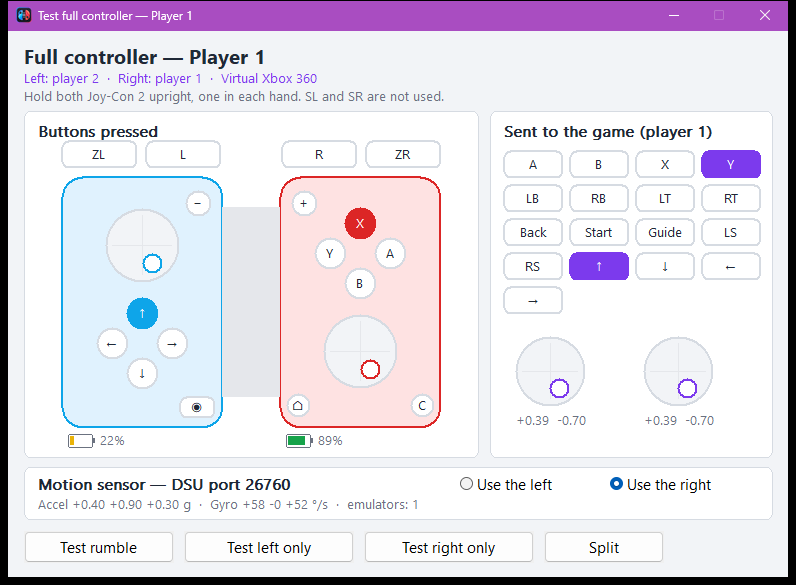
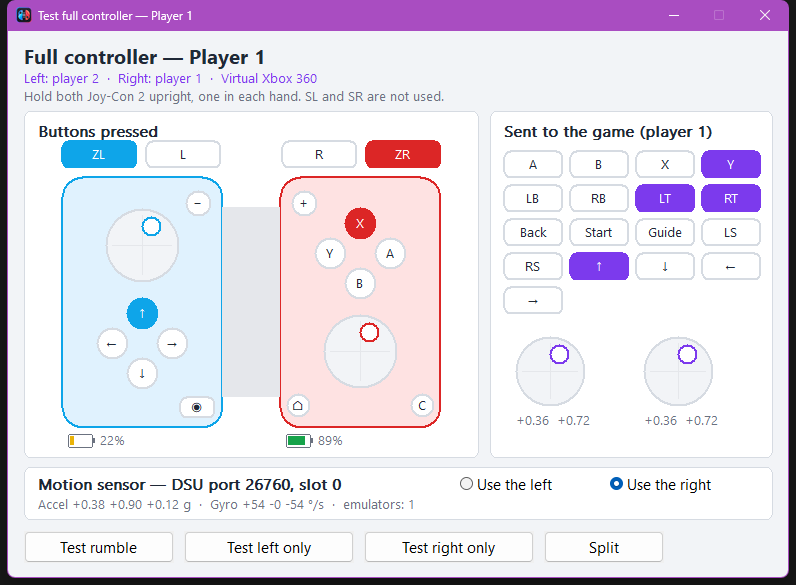
README: movimento DSU em uma porta com um slot por controle (v1.4.0)

diff --git a/README.md b/README.md
@@ -22,8 +22,8 @@ O JoyCon2 Hub conecta até **8 Joy-Con 2** por Bluetooth, ativa todos os recurso
 - Up to **8 Joy-Con 2** over Bluetooth LE, no Windows pairing needed (just hold SYNC).
 - Each one becomes a **virtual Xbox 360** (players 1–4) or **DualShock 4** (players 5–8) controller.
 - **Join** a left + right pair into one full controller.
-- **Motion via CemuHook/DSU** for Ryujinx, Cemu, Dolphin: one port per player (`127.0.0.1`, port 26760 + player − 1, slot 0).
-- **Switch 2 emulators (Lichii, Eden-NX2):** Lichii only connects the Switch 2 *Pro Controller* by itself. JoyCon2 Hub adds the **Joy-Con 2**. In *Emulation → Configure… → Controls*, pick the virtual Xbox controller as the input device. Then go to *Motion → Configure → CemuhookUDP Config*: `127.0.0.1:26760` is there by default; add 26761, 26762… for more players. Finally click the motion field (*Motion 2* for Right Joycon, *Motion 1* for Left/Pro) and shake the Joy-Con without touching the mouse. If it says "Mouse", right-click → Clear and retry.
+- **Motion via CemuHook/DSU** for Ryujinx, Cemu, Dolphin: one server, one slot per player — `127.0.0.1:26760`, slot = player − 1 (players 1–4 → slots 0–3; players 5–8 → port `26761`, slots 0–3). The card of each controller shows its port and slot.
+- **Switch 2 emulators (Lichii, Eden-NX2):** Lichii only connects the Switch 2 *Pro Controller* by itself. JoyCon2 Hub adds the **Joy-Con 2**. In *Emulation → Configure… → Controls*, pick the virtual Xbox controller as the input device. Then go to *Motion → Configure → CemuhookUDP Config*: `127.0.0.1:26760` is there by default and serves players 1–4 (add `26761` only for players 5–8). Finally click the motion field (*Motion 2* for Right Joycon, *Motion 1* for Left/Pro) and shake the Joy-Con without touching the mouse. If it says "Mouse", right-click → Clear and retry.
 - Guided calibration, live 3D test window, battery %, player LEDs, tray icon, auto-update.
 - The interface follows your Windows language (English, Português, Español, Français, Deutsch, Italiano, Русский, 日本語, 한국어, 中文).
 
@@ -38,8 +38,8 @@ Questions or problems? Open an **[Issue](../../issues)** (attach `%LOCALAPPDATA%
 - **Até 8 Joy-Con 2 ao mesmo tempo**, cada um como um jogador separado (esquerdo ou direito, identificado sozinho).
 - **Todos os botões**, incluindo **SL/SR**, HOME, Captura e o botão **C** do Joy-Con 2 direito.
 - **Controle virtual por jogador**: Xbox 360 para os jogadores 1 a 4 e DualShock 4 para os jogadores 5 a 8.
-- **Juntar esquerdo + direito num controle completo**: o botão **Juntar** no cartão de um Joy-Con une ele a um do outro lado (com mais de um disponível, você escolhe qual). Os dois viram **um só controle virtual**, segurados na vertical como um controle comum: dois analógicos, direcional, ABXY, L/R, ZL/ZR, −/+ e HOME (SL/SR não são usados). O movimento vai pela porta DSU do jogador principal, e você escolhe se vem do Joy-Con **esquerdo ou direito**. O cartão unido tem **Testar** (tela própria do controle completo), **Separar** e **Desconectar** (os dois). Ao conectar, os Joy-Con continuam separados como sempre.
-- **Movimento (CemuHook/DSU)**: uma porta por controle (26760, 26761, …), sempre no slot 0.
+- **Juntar esquerdo + direito num controle completo**: o botão **Juntar** no cartão de um Joy-Con une ele a um do outro lado (com mais de um disponível, você escolhe qual). Os dois viram **um só controle virtual**, segurados na vertical como um controle comum: dois analógicos, direcional, ABXY, L/R, ZL/ZR, −/+ e HOME (SL/SR não são usados). O movimento vai pela porta e slot DSU do jogador principal, e você escolhe se vem do Joy-Con **esquerdo ou direito**. O cartão unido tem **Testar** (tela própria do controle completo), **Separar** e **Desconectar** (os dois). Ao conectar, os Joy-Con continuam separados como sempre.
+- **Movimento (CemuHook/DSU)**: um servidor só, com um **slot por controle**: porta `26760`, slot = número do jogador − 1 (jogadores 1 a 4 nos slots 0 a 3; jogadores 5 a 8 na porta `26761`, slots 0 a 3). O cartão de cada controle mostra a porta e o slot dele.
 - **Vibração** do jogo repassada ao Joy-Con.
 - **LED de jogador** aceso conforme o número do jogador.
 - **Bateria em porcentagem** de cada controle.
@@ -89,8 +89,18 @@ Para cada jogador, em **Opções → Configurações → Entrada**:
 2. **Tipo de controle:** Joy-Con esquerdo, Joy-Con direito ou Pro Controller, conforme o jogo.
 3. Em **Movimento**, marque **"Usar movimento compatível com CemuHook"** e preencha:
    - **Servidor:** `127.0.0.1`
-   - **Porta:** a porta DSU do controle, que aparece no cartão dele: jogador 1 = `26760`, jogador 2 = `26761`, e assim por diante.
-   - **Slot:** `0`
+   - **Porta:** `26760` (jogadores 5 a 8: `26761`).
+   - **Slot:** o slot do controle, que aparece no cartão dele (*DSU 26760, slot N*): jogador 1 = `0`, jogador 2 = `1`, jogador 3 = `2`, jogador 4 = `3`. Jogadores 5 a 8 = slots `0` a `3` da porta `26761`.
+
+| Jogador | Porta | Slot |
+|---|---|---|
+| 1 | 26760 | 0 |
+| 2 | 26760 | 1 |
+| 3 | 26760 | 2 |
+| 4 | 26760 | 3 |
+| 5 – 8 | 26761 | 0 – 3 |
+
+> **Vindo da versão 1.3 ou anterior?** Antes era uma porta por controle (26760, 26761, 26762…), sempre no slot 0. Agora o jogador 2 fica em `26760` **slot 1**, o jogador 3 em `26760` **slot 2**, e assim por diante: ajuste a porta e o slot de cada jogador no emulador.
 4. Salve.
 
 O mesmo servidor DSU funciona no **Cemu**, no **Dolphin** e em outros programas compatíveis com CemuHook.
@@ -99,7 +109,7 @@ O mesmo servidor DSU funciona no **Cemu**, no **Dolphin** e em outros programas 
 O Lichii conecta sozinho só o **Pro Controller** do Switch 2. Os **Joy-Con 2** entram pelo JoyCon2 Hub. Baixe o Lichii somente pela página oficial de releases no GitHub ([zortos293/Lichii](https://github.com/zortos293/Lichii/releases)).
 
 1. Abra **Emulation → Configure… → Controls**.
-2. **Servidores de movimento:** em **Motion**, clique em **Configure** (janela *Configure Motion / Touch*). Em **CemuhookUDP Config**, o servidor `127.0.0.1` porta `26760` (jogador 1) já vem cadastrado. Para outros jogadores, use **Add Server** com `127.0.0.1` e a porta de cada um (`26761`, `26762`, …). O botão **Test** confere a ligação.
+2. **Servidores de movimento:** em **Motion**, clique em **Configure** (janela *Configure Motion / Touch*). Em **CemuhookUDP Config**, o servidor `127.0.0.1` porta `26760` já vem cadastrado e atende os jogadores 1 a 4 (um slot para cada). Só para os jogadores 5 a 8 use **Add Server** com `127.0.0.1` porta `26761`. O botão **Test** confere a ligação.
 3. Em cada **Player N**:
    - **Input Device:** o controle Xbox 360 (ou DualShock 4) daquele jogador;
    - **Controller type:** Pro Controller, Left Joycon, Right Joycon ou Dual Joycons (para o par unido com **Juntar**), conforme o jogo;
@@ -112,7 +122,7 @@ O Lichii conecta sozinho só o **Pro Controller** do Switch 2. Os **Joy-Con 2** 
 player_0_motionleft="engine:cemuhookudp,motion:0,port:26760,pad:0,guid:0000000000000000000000007f000001"
 player_0_motionright="engine:cemuhookudp,motion:0,port:26760,pad:0,guid:0000000000000000000000007f000001"
 ```
-Para o jogador 2, use `player_1_…` com `port:26761` e `pad:4`. Para o jogador 3, `player_2_…` com `port:26762` e `pad:8`, e assim por diante. Os servidores precisam estar cadastrados na mesma ordem: 26760, 26761, 26762…
+Para o jogador 2, use `player_1_…` com `port:26760` e `pad:1`. Para o jogador 3, `player_2_…` com `pad:2`; jogador 4, `player_3_…` com `pad:3` (o `pad` é o slot). Jogadores 5 a 8 usam `port:26761` com `pad:4` a `pad:7` (segundo servidor cadastrado, slots 0 a 3).
 
 O Eden e o Eden-NX2 têm as mesmas telas (todos vêm do yuzu).
 
